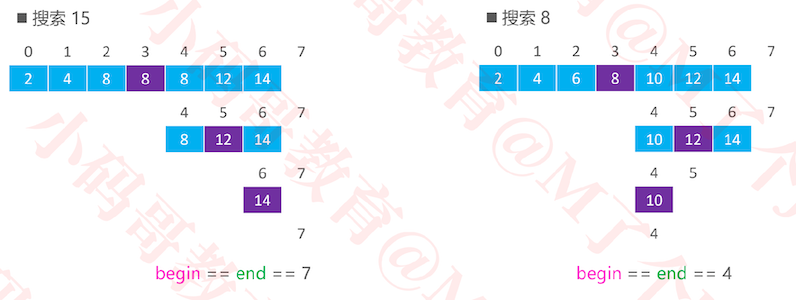
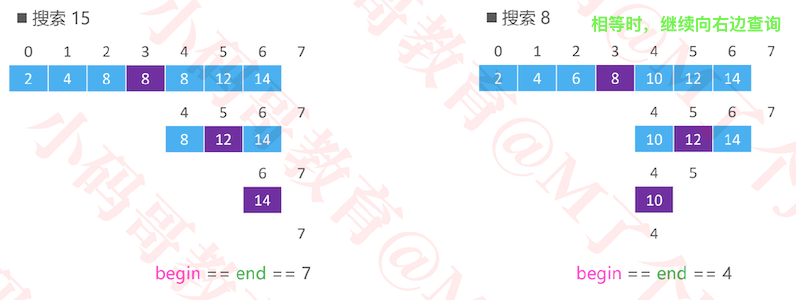
#Update xx

diff --git a/documents/第二季/1-排序.md b/documents/第二季/1-排序.md
@@ -935,7 +935,7 @@ public class Student implements Comparable<Student> {
 
 + 如果 <font color=red>v</font> < m，去 [<font color="#FF62D7">begin</font>, <font color="#7030A0">mid</font> )范围内二分搜索
 
-+ 如果 <font color=red>v</font> < m，去 [<font color="#7030A0">mid</font> + 1, <font color="#14a249">end</font>) 范围内二分搜索
++ 如果 <font color=red>v</font> > m，去 [<font color="#7030A0">mid</font> + 1, <font color="#14a249">end</font>) 范围内二分搜索
 
 + 如果 <font color=red>v</font> <font color="#7030A0">== </font>m，直接返回 <font color="#7030A0">mid</font>
 
@@ -1009,6 +1009,11 @@ public class Student implements Comparable<Student> {
 
 + 如果  <font color=red>v</font> <font color="#14a249">≥</font> m，去 [<font color="#7030A0">mid</font> + 1, <font color="#14a249">end</font>) 范围内二分搜索
 
+  ```
+  因为我们要的是v元素的插入位置， 所以
+  当v = m时，并不是返回m当前的位置。而是向右边查找，这样可以做到相等的元素不交换位置。达到稳定排序的目的
+  ```
+  
   ![](./images/排序23.png)
 
 ### 插入排序 – 二分搜索优化 – 实例
